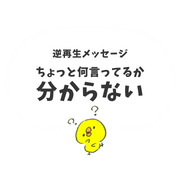
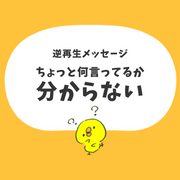
Improve: meta-tagの調整・画像の変更

diff --git a/app/helpers/application_helper.rb b/app/helpers/application_helper.rb
@@ -1,10 +1,7 @@
 module ApplicationHelper
   def default_meta_tags
     {
-      site: 'ちょっと何言ってるか分からない',
       title: '逆再生メッセージ「ちょっと何言ってるか分からない」',
-      reverse: true,
-      separator: '|',
       description: 'メッセージやキーワードなどを逆再生化して解読してもらうアプリです。',
       keywords: '逆再生,メッセージ,ちょっと何言ってるか分からない',
       canonical: request.original_url,
@@ -14,7 +11,6 @@ module ApplicationHelper
         { href: image_url('icon.png'), rel: 'apple-touch-icon', sizes: '180x180', type: 'image/jpg' },
       ],
       og: {
-        site_name: :site,
         title: :title,
         description: :description, 
         type: 'website',
